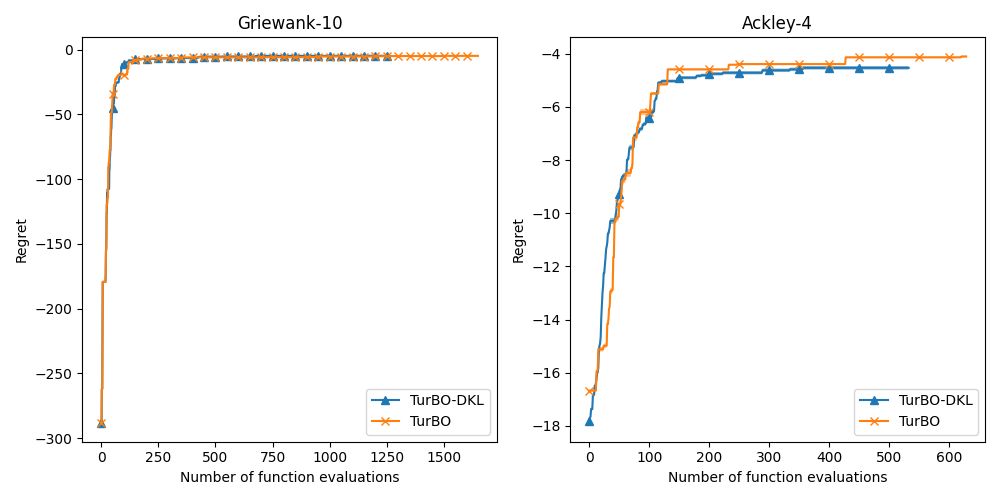
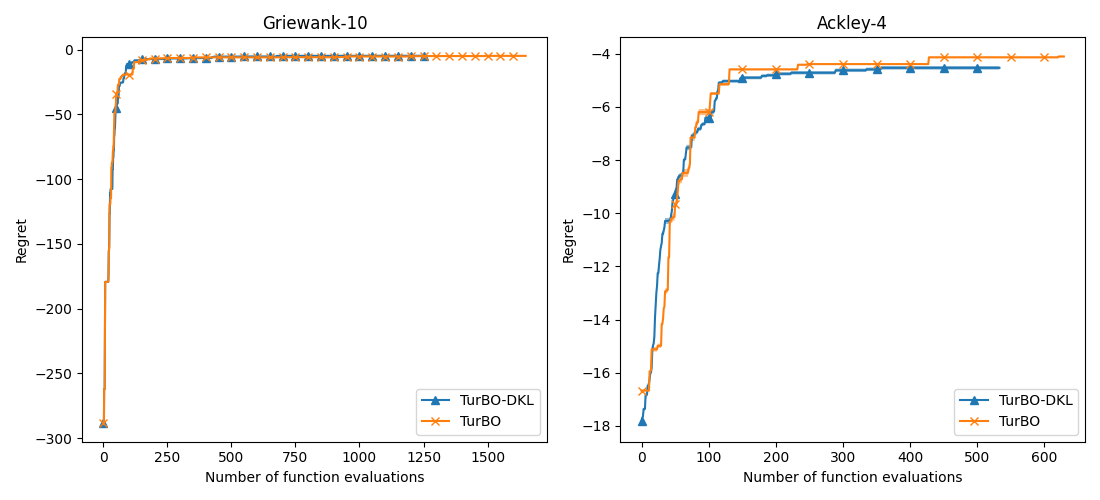
add results

diff --git a/results-old/plot.py b/results-old/plot.py
@@ -25,7 +25,7 @@ if __name__ == '__main__':
                 algo_benchs[bench][algo].append(y)
 
     # create figure with as many columns as benchmarks
-    fig, axs = plt.subplots(1, len(algo_benchs), figsize=(10, 5))
+    fig, axs = plt.subplots(1, len(algo_benchs), figsize=(11, 5))
 
     # plot the benchmarks
     for i, bench in enumerate(algo_benchs.keys()):
